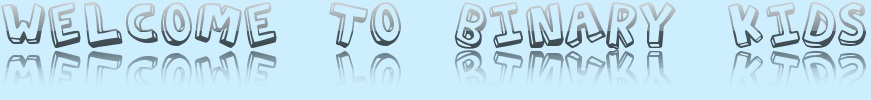
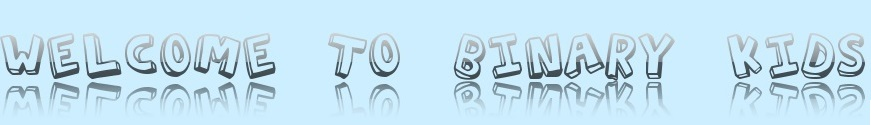
working on start screen graphics

diff --git a/BinaryKids/src/tutorial/StartPage.java b/BinaryKids/src/tutorial/StartPage.java
@@ -1,6 +1,9 @@
 package tutorial;
 import java.awt.Button;
 import java.awt.Graphics;
+import java.awt.GridBagConstraints;
+import java.awt.GridBagLayout;
+import java.awt.Insets;
 import java.awt.TextField;
 import java.awt.Toolkit;
 import java.awt.event.ActionEvent;
@@ -41,32 +44,53 @@ public class StartPage extends JPanel
     	//ImageIcon icon = new ImageIcon(welcomePage.titleTextImg);
     	//ImageIcon icon = new ImageIcon("images/titleTextImg");
     	
-    	titlePanel = new JPanel();
+    	
     	titleLabel = new JLabel("Welcome to BinaryKids!");
     	titleLabel.setFont(new Font("Verdana",1,20));
-    	//titleLabel = new JLabel();
-    	//titleLabel.setIcon(icon);
-    	//titlePanel.add(welcomePage.titleTextImg);
-    	titlePanel.add(titleLabel);
-    	titlePanel.setBorder(new LineBorder(Color.BLACK)); 
     	
+    	//titlePanel.setBorder(new LineBorder(Color.BLACK)); 
     	
     	submitButton = new Button("Submit");
-    	nameField = new TextField("Enter your name here");
-    	
-    	
-    	JLabel directionsLabel = new JLabel("This applet will teach you how to use binary. "
-    			+ "Then you can play a fun game with the skills you've learned!!");
-    	directionsLabel.setFont(new Font("Verdana", 1, 12));
-    	
-    	
     	submitButton.addActionListener(new nameButtonListener());
+    	nameField = new TextField("Enter your name here");
+    	nameField.setColumns(20);
     	
+    	
+    	JLabel directionsLabel = new JLabel("This applet will teach you how to use binary. ");
+    	directionsLabel.setFont(new Font("Verdana", 1, 14));
+    	
+    	JLabel directionsLabel2 = new JLabel("Then you can play a fun game with the skills you've learned!!");
+    	directionsLabel2.setFont(new Font("Verdana", 1, 14));
+    	
+    	titlePanel = new JPanel();
+    	titlePanel.setLayout(new GridBagLayout());
+    	titlePanel.setBackground(WelcomePage.backgroundColor);
+    	GridBagConstraints c = new GridBagConstraints();
+		c.anchor = GridBagConstraints.CENTER;
+		c.gridx = 0;
+		c.gridy = 0;
+		c.ipady = 50;
+    	titlePanel.add(titleLabel, c);
+    	c.ipady = 0;
+    	c.gridx = 0;
+		c.gridy = 1;
+		//c.insets = new Insets (0,50,0,50);
+    	titlePanel.add(nameField, c);
+    	c.gridx = 1;
+		c.gridy = 1;
+    	titlePanel.add(submitButton, c);
+    	c.gridx = 0;
+		c.gridy = 2;
+		c.anchor = GridBagConstraints.CENTER;
+		titlePanel.add(directionsLabel, c);
+    	c.gridx = 0;
+		c.gridy = 3;
+    	titlePanel.add(directionsLabel2, c);
     	add(titlePanel);
-    	add(directionsLabel);
     	
-    	add(nameField);
-    	add(submitButton);
+    	
+    	//add(nameField);
+    	//add(submitButton);
     	
     	
     }
@@ -82,7 +106,7 @@ public class StartPage extends JPanel
 
     	g.setFont(new Font("Verdana", 1, 20));
     	g.drawString(nameString, 280,200);
-    	
+    	g.drawImage(welcomePage.titleTextImg, 0 , 0, this);
     	g.drawImage(welcomePage.titleImg, 200, 300, this);
 
     }

diff --git a/BinaryKids/src/tutorial/WelcomePage.java b/BinaryKids/src/tutorial/WelcomePage.java
@@ -167,7 +167,7 @@ public class WelcomePage extends JApplet
     	lightOffImg = lightOnImg.getScaledInstance(200, 400, Image.SCALE_SMOOTH);
     	titleTextImg = Toolkit.getDefaultToolkit().getImage(
     			getClass().getClassLoader().getResource(WelcomePage.titlePath));
-    	titleTextImg = titleTextImg.getScaledInstance(400, 300, Image.SCALE_SMOOTH);
+    	titleTextImg = titleTextImg.getScaledInstance(800, 90, Image.SCALE_SMOOTH);
     }
     
     public void createButtonPanel()
